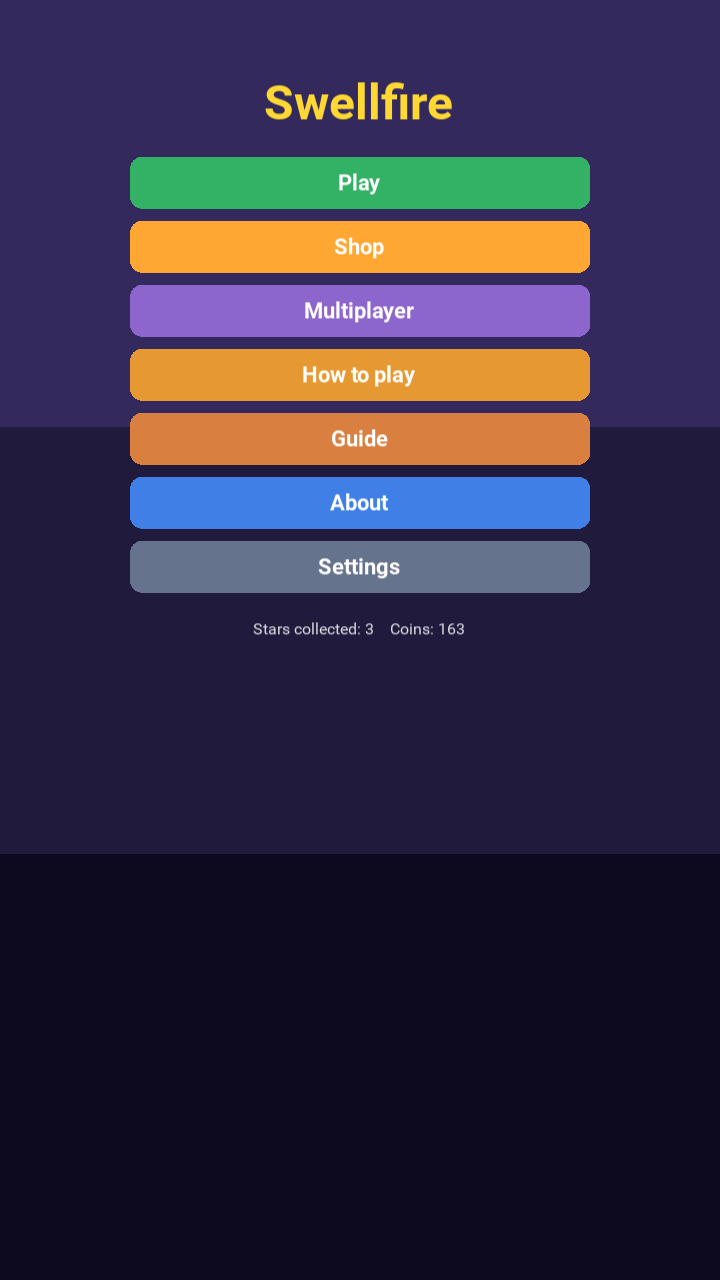
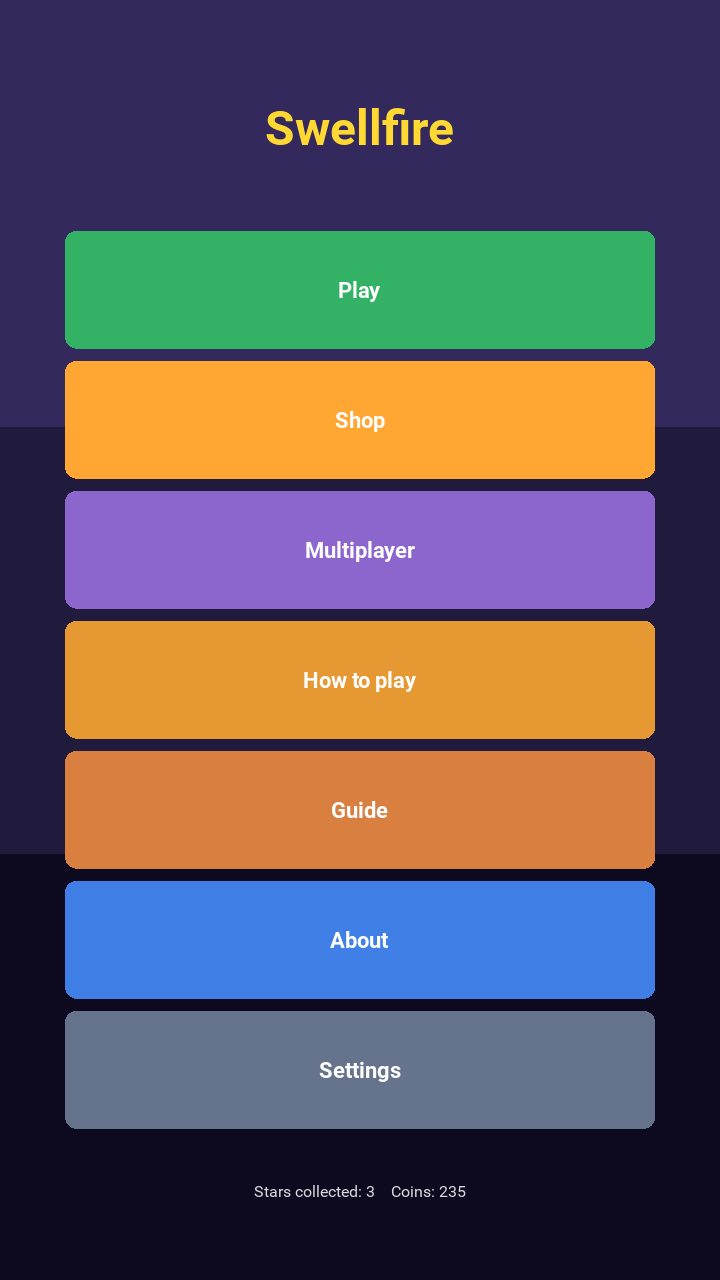
Fix screen size issue

diff --git a/ui.py b/ui.py
@@ -679,25 +679,26 @@ class MenuScreen(StyledScreen):
     theme_world = 6
 
     def build(self):
-        scroll, box = _scroll_panel(size_hint=(0.7, 0.94))
-        box.add_widget(Label(text="Swellfire", font_size=sp(48), bold=True,
-                             color=[1, 0.85, 0.2, 1],
-                             size_hint_y=None, height=TITLE_HEIGHT))
+        # A vertically-centered column that fills most of the window height so
+        # the menu always covers the screen (no dead band below the buttons).
+        # Children use proportional heights, so the title + buttons scale with
+        # the window; the column height is capped so buttons stay sensible on
+        # very tall monitors, where it becomes a large centered block instead.
+        content = BoxLayout(
+            orientation="vertical", spacing=dp(12),
+            size_hint=(0.82, None),
+            pos_hint={"center_x": 0.5, "center_y": 0.5},
+        )
+        content.add_widget(Label(text="Swellfire", font_size=sp(48), bold=True,
+                                 color=[1, 0.85, 0.2, 1], size_hint_y=0.16))
 
-        play = StyledButton(text="Play", bg=[0.2, 0.7, 0.4, 1],
-                            size_hint_y=None, height=BTN_HEIGHT)
-        shop_btn = StyledButton(text="Shop", bg=[1.0, 0.65, 0.20, 1],
-                                size_hint_y=None, height=BTN_HEIGHT)
-        multiplayer = StyledButton(text="Multiplayer", bg=[0.55, 0.4, 0.8, 1],
-                                   size_hint_y=None, height=BTN_HEIGHT)
-        how = StyledButton(text="How to play", bg=[0.9, 0.6, 0.2, 1],
-                           size_hint_y=None, height=BTN_HEIGHT)
-        guide = StyledButton(text="Guide", bg=[0.85, 0.5, 0.25, 1],
-                             size_hint_y=None, height=BTN_HEIGHT)
-        about = StyledButton(text="About", bg=[0.25, 0.5, 0.9, 1],
-                             size_hint_y=None, height=BTN_HEIGHT)
-        settings = StyledButton(text="Settings", bg=[0.4, 0.45, 0.55, 1],
-                                size_hint_y=None, height=BTN_HEIGHT)
+        play = StyledButton(text="Play", bg=[0.2, 0.7, 0.4, 1], size_hint_y=0.105)
+        shop_btn = StyledButton(text="Shop", bg=[1.0, 0.65, 0.20, 1], size_hint_y=0.105)
+        multiplayer = StyledButton(text="Multiplayer", bg=[0.55, 0.4, 0.8, 1], size_hint_y=0.105)
+        how = StyledButton(text="How to play", bg=[0.9, 0.6, 0.2, 1], size_hint_y=0.105)
+        guide = StyledButton(text="Guide", bg=[0.85, 0.5, 0.25, 1], size_hint_y=0.105)
+        about = StyledButton(text="About", bg=[0.25, 0.5, 0.9, 1], size_hint_y=0.105)
+        settings = StyledButton(text="Settings", bg=[0.4, 0.45, 0.55, 1], size_hint_y=0.105)
 
         play.bind(on_release=lambda *_: app().go("worldmap"))
         shop_btn.bind(on_release=lambda *_: app().go("shop"))
@@ -708,12 +709,19 @@ class MenuScreen(StyledScreen):
         settings.bind(on_release=lambda *_: app().go("settings"))
 
         for btn in (play, shop_btn, multiplayer, how, guide, about, settings):
-            box.add_widget(btn)
+            content.add_widget(btn)
 
         self.stars = Label(text="", font_size=sp(16), color=[1, 1, 1, 0.85],
-                           size_hint_y=None, height=SUBTITLE_HEIGHT)
-        box.add_widget(self.stars)
-        self.root_layout.add_widget(scroll)
+                           size_hint_y=0.09)
+        content.add_widget(self.stars)
+
+        # A Screen's size tracks the window, so fit the column to it directly
+        # (no Window import — keeps ui importable headlessly for logic tests).
+        def _fit(*_):
+            content.height = min(self.height * 0.94, dp(1280))
+        self.bind(size=_fit)
+        _fit()
+        self.root_layout.add_widget(content)
 
     def on_enter(self):
         running = app()

diff --git a/main.py b/main.py
@@ -17,10 +17,50 @@ from kivy.uix.screenmanager import ScreenManager, FadeTransition
 from kivy.config import Config
 from kivy.resources import resource_add_path
 
-# Lock to portrait on desktop (Android / iOS use the orientation set in their
-# build configs). Done before any window is created.
-Config.set("graphics", "width", "540")
-Config.set("graphics", "height", "960")
+# Portrait window on desktop, sized to FIT the user's screen so it never opens
+# taller than the display. A hard-coded tall height (e.g. 960) can exceed a
+# laptop's usable height, pushing the title bar / resize edges off-screen and
+# making the window awkward to move or resize. We derive a 9:16 portrait size
+# from ~90% of the detected screen height instead, and keep the window freely
+# resizable (the UI adapts to any size). Android / iOS use the orientation set
+# in their own build configs. Done before any window is created.
+def _detect_screen_height():
+    """Best-effort desktop screen height in px, without creating a window.
+    Tries xrandr (X / XWayland) then tkinter, falling back to a safe phone-ish
+    height when there's no display (headless capture / CI)."""
+    try:
+        import subprocess
+        out = subprocess.run(["xrandr"], capture_output=True, text=True,
+                             timeout=2.0).stdout
+        for line in out.splitlines():
+            if "*" in line:                      # the active "*"-marked mode
+                return int(line.split()[0].split("x")[1])
+    except Exception:
+        pass
+    try:
+        import tkinter
+        _probe = tkinter.Tk()
+        h = _probe.winfo_screenheight()
+        _probe.destroy()
+        if h > 0:
+            return h
+    except Exception:
+        pass
+    return 768                                   # safe default that fits laptops
+
+
+def _portrait_window_size():
+    """A 9:16 portrait size ~90% of the screen height, never taller than the
+    screen minus room for window chrome."""
+    screen_h = _detect_screen_height()
+    height = max(560, min(int(screen_h * 0.90), screen_h - 72))
+    width = int(round(height * 9.0 / 16.0))
+    return width, height
+
+
+_WIN_W, _WIN_H = _portrait_window_size()
+Config.set("graphics", "width", str(_WIN_W))
+Config.set("graphics", "height", str(_WIN_H))
 Config.set("graphics", "resizable", "1")
 
 # Asset root. When frozen by PyInstaller the bundled assets are unpacked under
